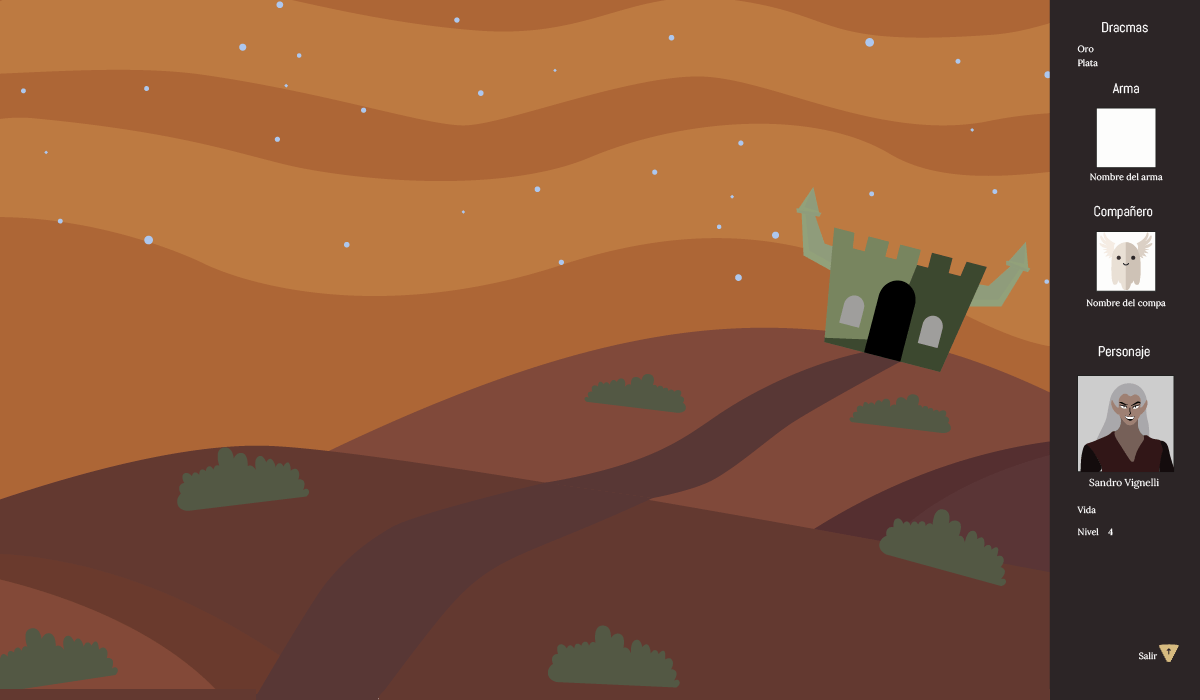
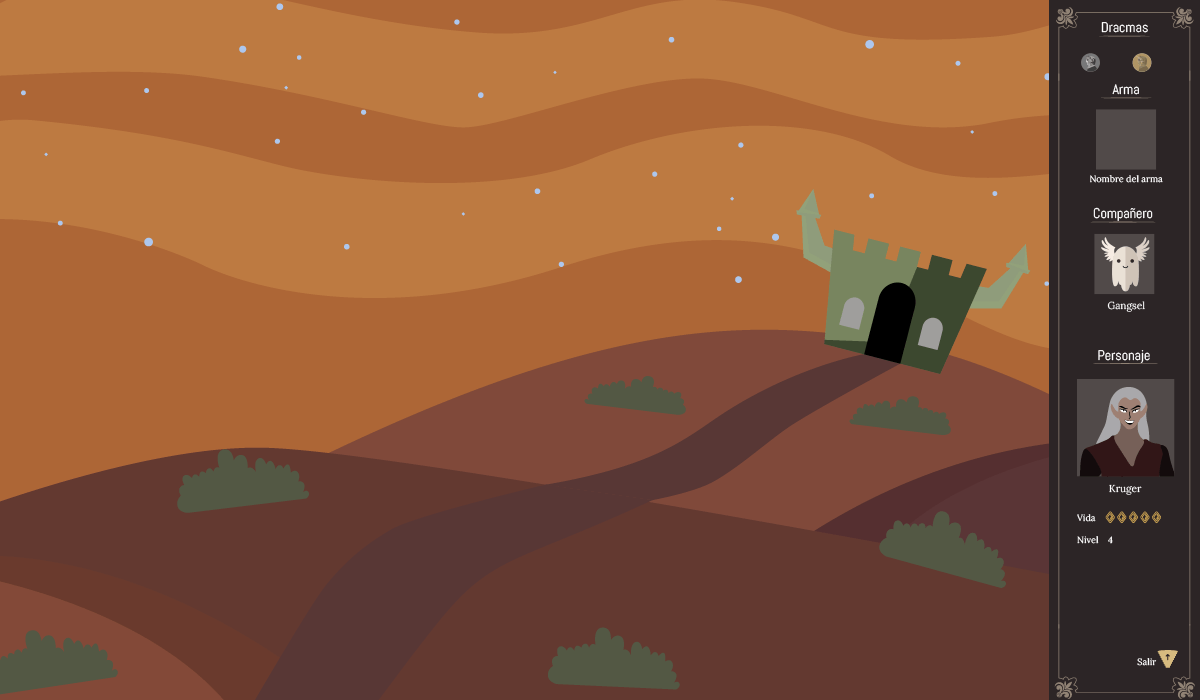
ya funcionan mejor las dracmas

diff --git a/Infernus/src/Principal.java b/Infernus/src/Principal.java
@@ -27,6 +27,7 @@ public class Principal extends PApplet {
 	ArrayList<Villano> misFlechas;
 	ArrayList<Dracma> misDracmasPlata;
 	ArrayList<Dracma> misDracmasPlata2;
+	ArrayList<Dracma> misDracmasOro;
 	
 //IMAGENSITAS
 	PImage inicial;
@@ -42,7 +43,7 @@ public class Principal extends PApplet {
 //BOLEAN PARA PASAR DE UN NIVEL AL OTRO
 	int pantalla; 
 	int xDescender, yDescender, xInstrucciones, yInstrucciones;
-	int puntaje;
+	int puntaje;	int puntaje2;
 	
 	
 	@Override
@@ -91,13 +92,15 @@ public class Principal extends PApplet {
 		
 		//RECOLECTABLE DE DRACMAS
 		misDracmasPlata = new ArrayList<Dracma>();
-		misDracmasPlata.add(new Dracma(370, 50, this));
-		misDracmasPlata.add(new Dracma(700, 650, this));
+		misDracmasPlata.add(new Dracma(370, 50, this));		misDracmasPlata.add(new Dracma(700, 650, this));
 		
 		misDracmasPlata2 = new ArrayList<Dracma>();
-		misDracmasPlata2.add(new Dracma(100, 100, this));
-		misDracmasPlata2.add(new Dracma(700, 650, this));
+		misDracmasPlata2.add(new Dracma(100, 100, this));	misDracmasPlata2.add(new Dracma(700, 350, this));
 		
+		misDracmasOro = new ArrayList<Dracma>();
+		misDracmasOro.add(new Dracma(100, 600, this));	misDracmasOro.add(new Dracma(800, 600, this));
+		misDracmasOro.add(new Dracma(700, 550, this));	misDracmasOro.add(new Dracma(200, 450, this));
+		misDracmasOro.add(new Dracma(400, 600, this));
 	
 		//Tiempo de imagen cargando
 		reloj = 0;
@@ -218,6 +221,20 @@ public class Principal extends PApplet {
 			kruger.pintar(this);
 			cerbero.pintar(this);
 			cerbero.mover();
+			
+			textSize(20);
+			text(":" + puntaje, 1105, 70);
+			text(":" + puntaje2, 1140, 70);
+			
+			
+			for (int i = 0; i < misDracmasOro.size(); i++) {//Dracmas de plata 
+				misDracmasOro.get(i).pintar3(this); // Llamo el pintar de cada clase que tenga un comportamiento
+				
+				if (dist(kruger.getX(), kruger.getY(),misDracmasOro.get(i).getX(),misDracmasOro.get(i).getY()) < 20) {	
+					misDracmasOro.remove(i);//Recoger dracma
+					puntaje2 += 1;//sumar dracma
+				}
+			}
 			
 			if (kruger.getX()>1050) {//INSERTAR QUE DEBE PASAR PARA SEGUIR AL OTRO NIVEL
 				pantalla=5;

diff --git a/Infernus/src/Dracma.java b/Infernus/src/Dracma.java
@@ -27,9 +27,12 @@ public class Dracma {
 		app.imageMode(app.CORNER);
 	}
 	
-	public void pintar(int x, PApplet app) {
+	public void pintar3(PApplet app) {//Dracmas oro del nivel 3
+		app.imageMode(app.CENTER);
 		app.image(oro, x, y);
+		app.imageMode(app.CORNER);
 	}
+	
 	public int getX() {
 		return x;
 	}
